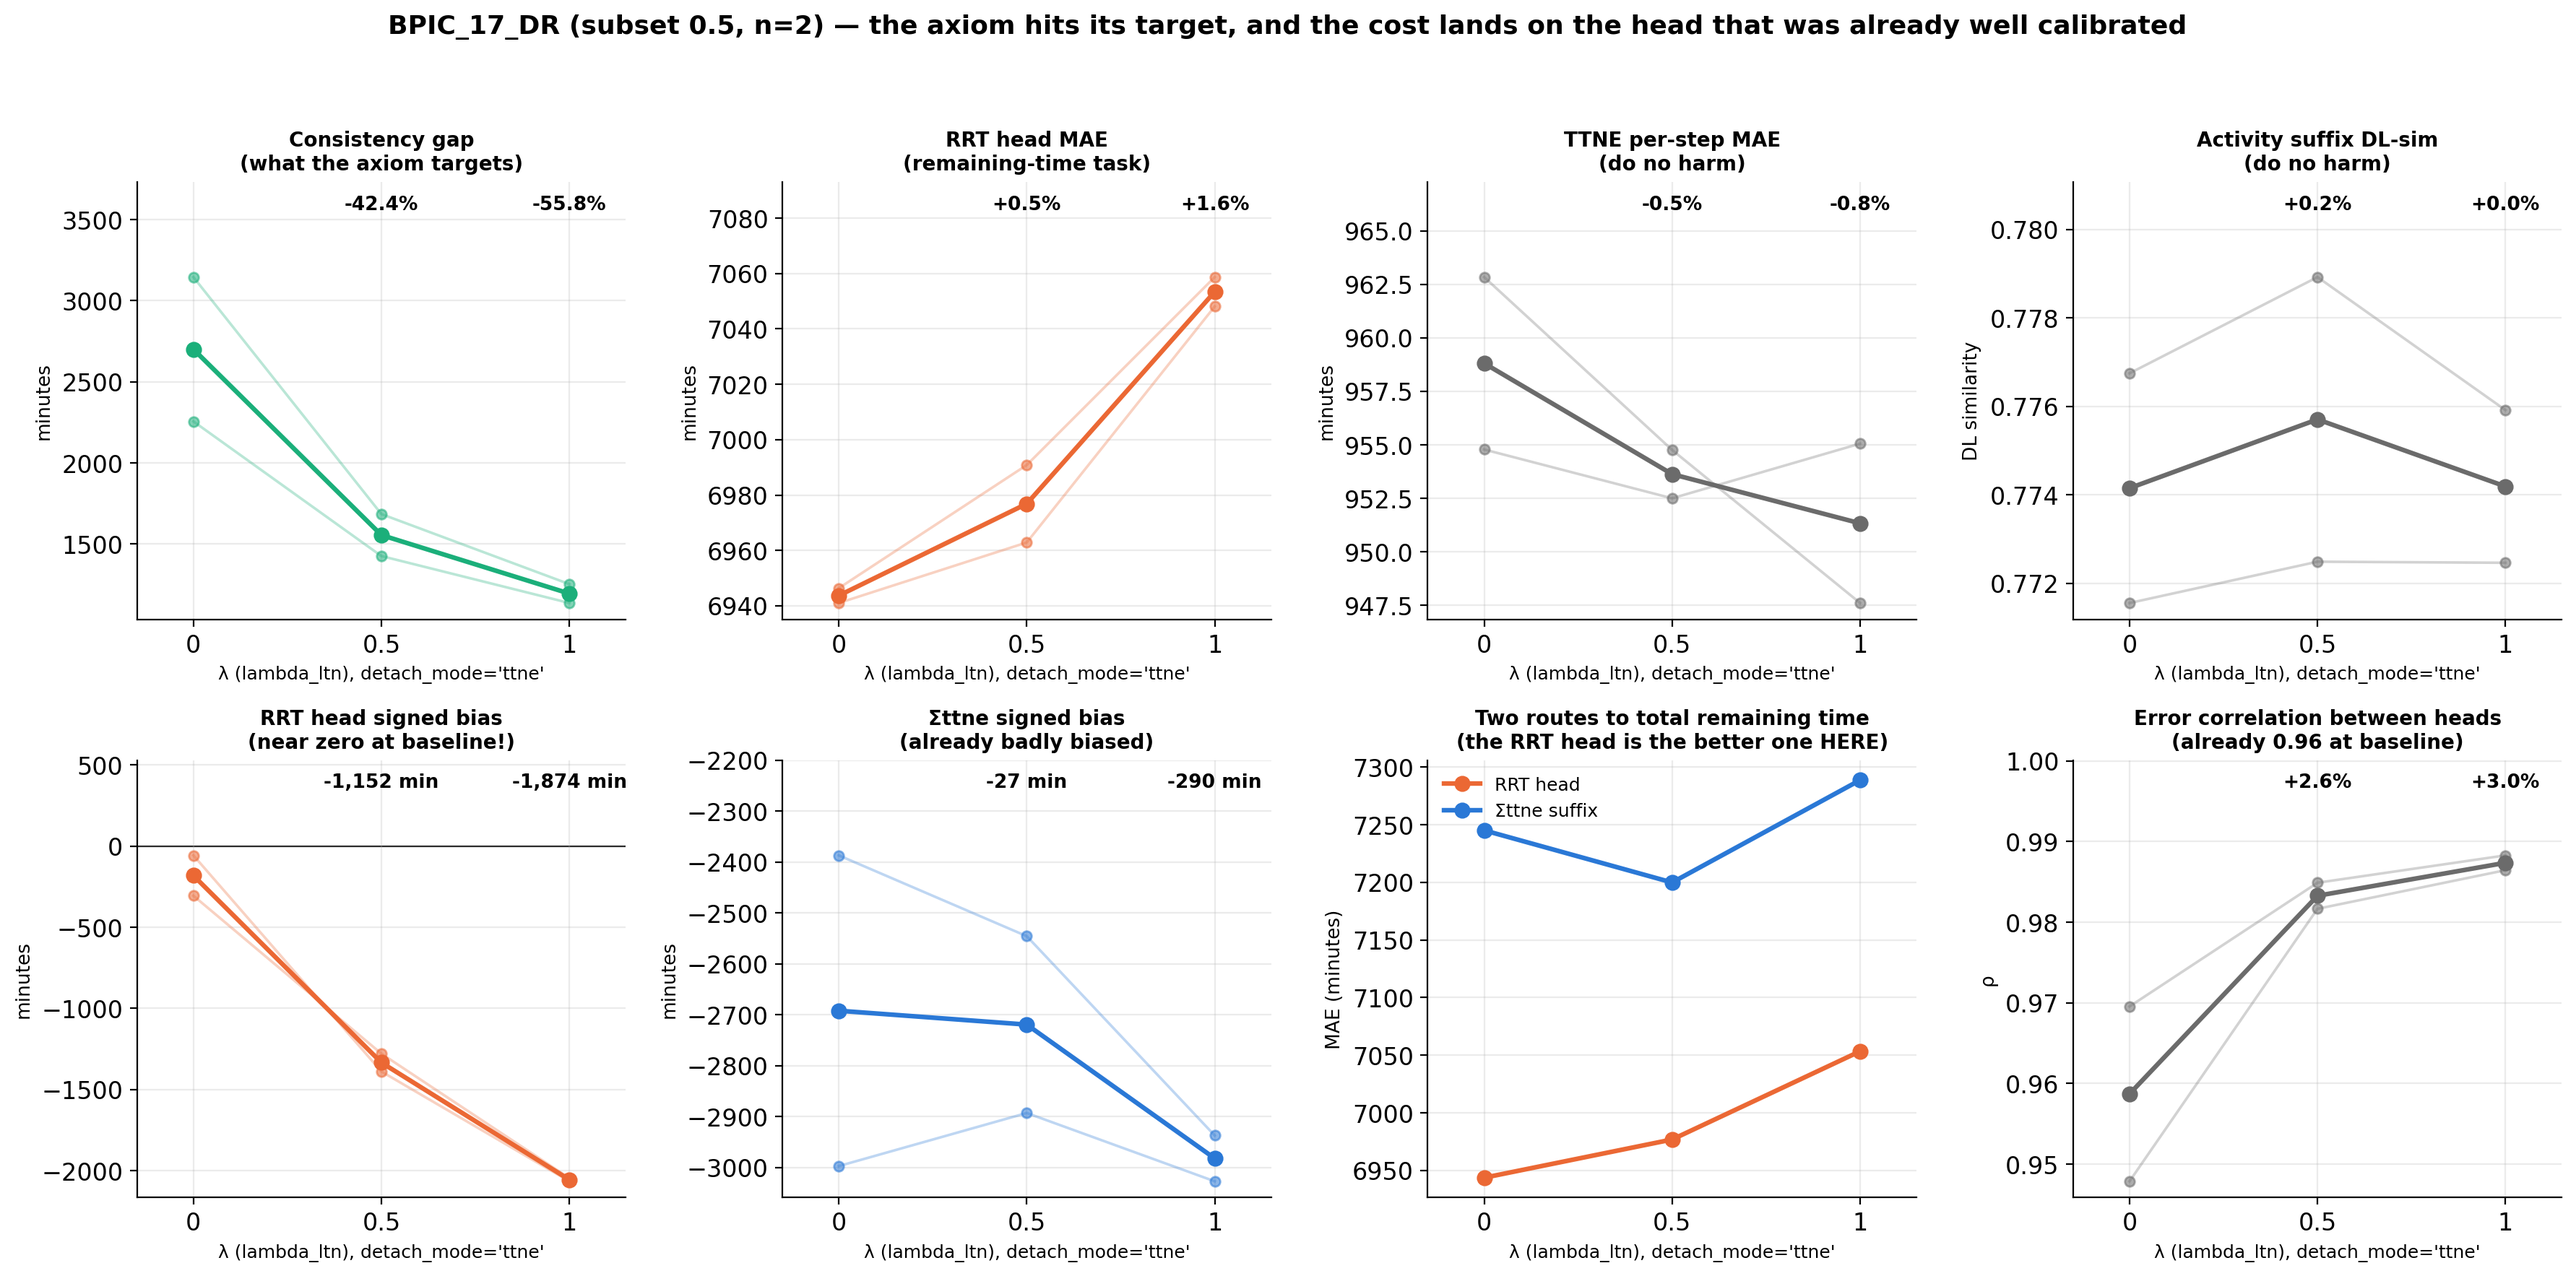
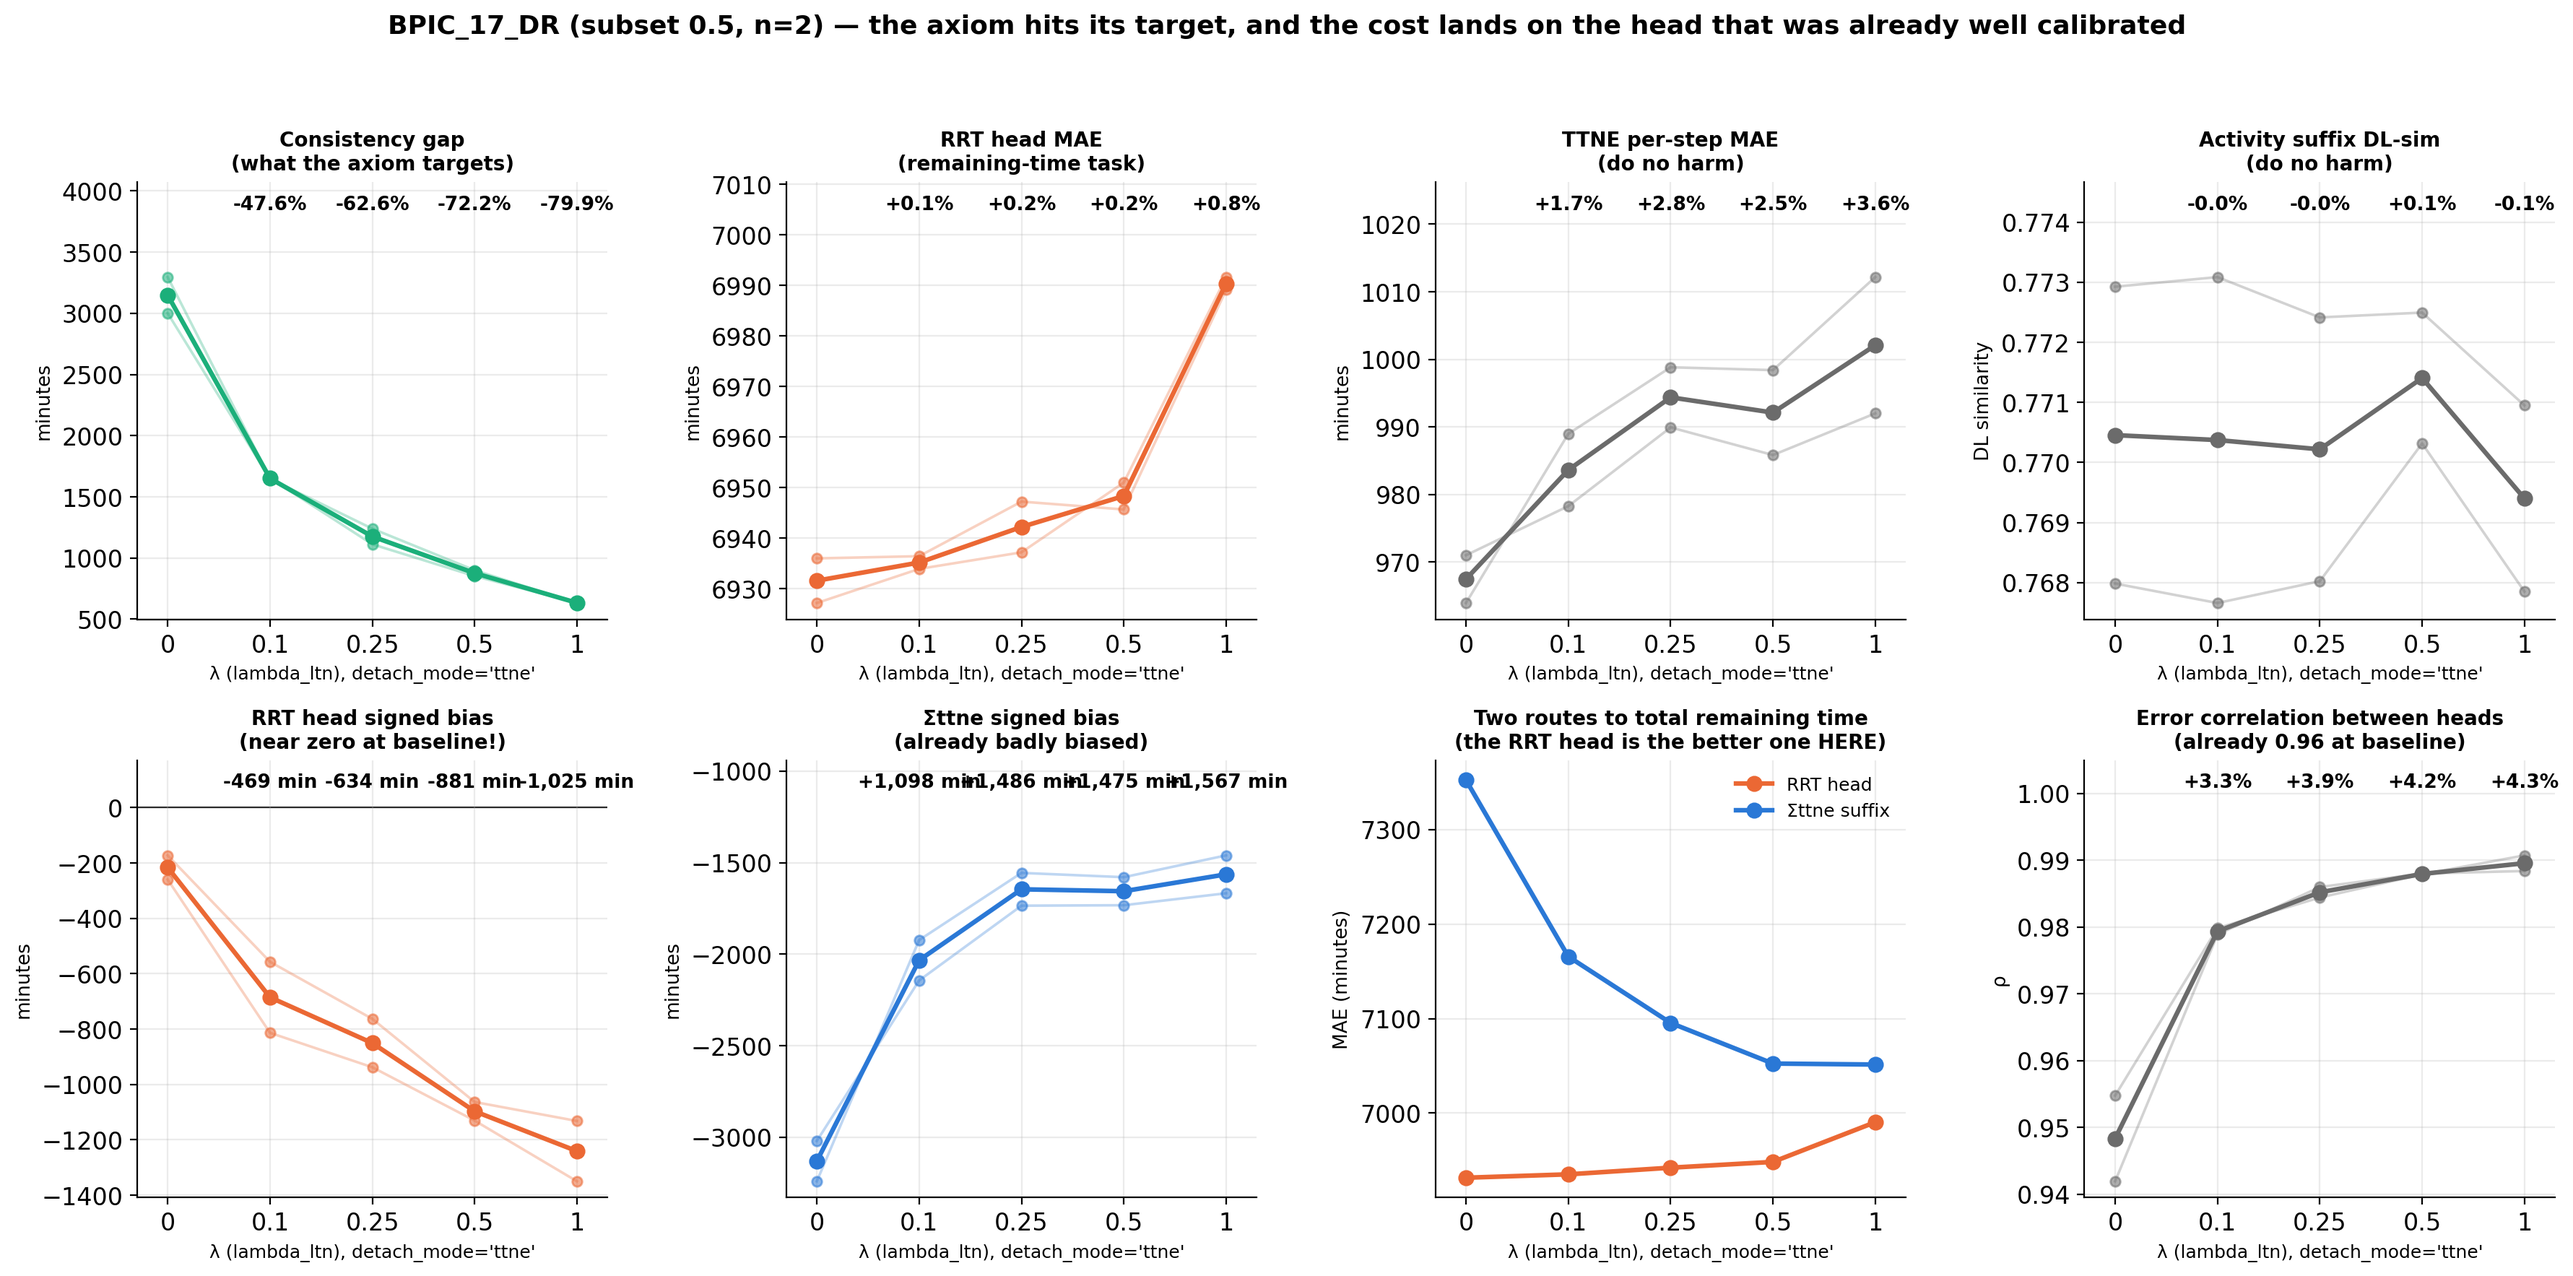
Axiom 1: aggregated results seeds 101, 102, updated scripts to run for seeds 103-105. Moved old BPIC17_DR laptop results to _superseded_p1000 folder. Updated notebook to show results for BPIC_17_DR

diff --git a/aggregate_results.py b/aggregate_results.py
@@ -132,17 +132,36 @@ def load_metrics(pkl_path: str) -> dict:
     return metrics
 
 
-def aggregate(log_name: str, training_mode: str | None = None) -> pd.DataFrame:
+def aggregate(log_name: str, training_mode: str | None = None,
+              seeds: list[int] | None = None) -> pd.DataFrame:
+    """Collect every completed run under `log_name/` into a per-seed table and a
+    mean/std-over-seeds summary.
+
+    Parameters
+    ----------
+    seeds : list of int, optional
+        Restrict to these seeds. Needed whenever one config name exists on more
+        than one hardware generation: on BPIC_17_DR the baseline and the
+        `_ltn_{0.5,1.0}_detach_ttne` configs were run both locally (seeds 3, 17,
+        Quadro P1000) and on the cluster (seeds 101, 102, A30 MIG). Grouping is
+        by config with seed treated as a repeat, so without a filter those rows
+        silently average across GPU architectures -- and the effects under study
+        are 1-2% (HANDOFF §9.3). Pass the block belonging to one machine.
+    """
     rows = []
     for config_key, seed, pkl_path in find_run_dirs(log_name, training_mode):
+        if seeds is not None and seed not in seeds:
+            continue
         metrics = load_metrics(pkl_path)
         metrics["config"] = config_key
         metrics["seed"] = seed
         rows.append(metrics)
 
     if not rows:
+        seed_note = f" with seed in {seeds}" if seeds is not None else ""
         raise RuntimeError(
-            f"No '{RESULT_FILENAME}' found anywhere under '{log_name}/SUTRAN_DA_results*_seed_*/'. "
+            f"No '{RESULT_FILENAME}' found anywhere under "
+            f"'{log_name}/SUTRAN_DA_results*_seed_*/'{seed_note}. "
             "Check that at least one run has completed and that the log_name matches "
             "the folder actually produced by TRAIN_EVAL_EQUAL_WEIGHTING.py."
         )
@@ -190,11 +209,49 @@ if __name__ == "__main__":
             "the normal single-technique-per-run layout."
         ),
     )
+    parser.add_argument(
+        "--seeds",
+        default=None,
+        help=(
+            "Comma-separated seeds to restrict to, e.g. '101,102'. Use this when a "
+            "config name exists on more than one machine: BPIC_17_DR's baseline and "
+            "its _ltn_{0.5,1.0}_detach_ttne configs were run both locally (3,17) and "
+            "on the cluster (101,102), and without a filter the summary averages "
+            "across GPU architectures."
+        ),
+    )
     parser.add_argument("--out_csv", default=None, help="Optional path to save the raw per-seed table as CSV.")
     parser.add_argument("--out_summary_csv", default=None, help="Optional path to save the aggregated mean/std table as CSV.")
     args = parser.parse_args()
 
-    per_seed_df, grouped_df = aggregate(args.log_name, args.training_mode)
+    seed_filter = None
+    if args.seeds:
+        seed_filter = [int(s) for s in args.seeds.split(",") if s.strip()]
+        print(f"Restricting to seeds {seed_filter}.")
+
+    per_seed_df, grouped_df = aggregate(args.log_name, args.training_mode, seed_filter)
+
+    # Warn when a config spans several seeds that were never meant to be pooled.
+    # Cheap, and it makes the hazard visible instead of relying on the reader
+    # remembering which seeds came from which machine.
+    if seed_filter is None:
+        MACHINE_BLOCKS = {"local (P1000)": {3, 5, 17, 23, 31, 47}, "cluster (MIG)": {101, 102}}
+        # A hardcoded seed->machine map goes stale the moment a new seed is used,
+        # and a check that silently stops checking is worse than no check: it
+        # gives a green light that is not looking at anything. So announce any
+        # seed we cannot classify, rather than passing it over.
+        unclassified = set(per_seed_df["seed"]) - set().union(*MACHINE_BLOCKS.values())
+        if unclassified:
+            print(f"!! WARNING: seed(s) {sorted(unclassified)} are not listed in "
+                  f"MACHINE_BLOCKS, so cross-machine pooling CANNOT be detected for "
+                  f"them. Add them to MACHINE_BLOCKS in aggregate_results.py.")
+        for cfg, grp in per_seed_df.groupby("config"):
+            present = set(grp["seed"])
+            blocks = [name for name, block in MACHINE_BLOCKS.items() if present & block]
+            if len(blocks) > 1:
+                print(f"!! WARNING: config '{cfg}' pools seeds from {blocks} "
+                      f"({sorted(present)}). Different GPU architectures; pass "
+                      f"--seeds to separate them.")
 
     print("\n=== Per-seed results ===")
     print(per_seed_df.to_string(index=False))

diff --git a/run_configs/bpic17dr_axiom1_sweep.py b/run_configs/bpic17dr_axiom1_sweep.py
@@ -39,7 +39,7 @@ VAL_SUBSET_FRACTION = 0.5
 
 # Grid shifted DOWN from BPIC_19's: §2.4 predicts the useful range here is
 # ~0.2-0.3. lambda=1.0 is kept as a reproduction check of the P1000 result.
-SEEDS = [101, 102]
+SEEDS = [103, 104, 105] # did [101, 102] already
 LAMBDAS = [0.1, 0.25, 0.5, 1.0]
 DETACH_MODES = ["none", "ttne", "rrt"]   # both free / only RRT moves / only Sttne moves
 
